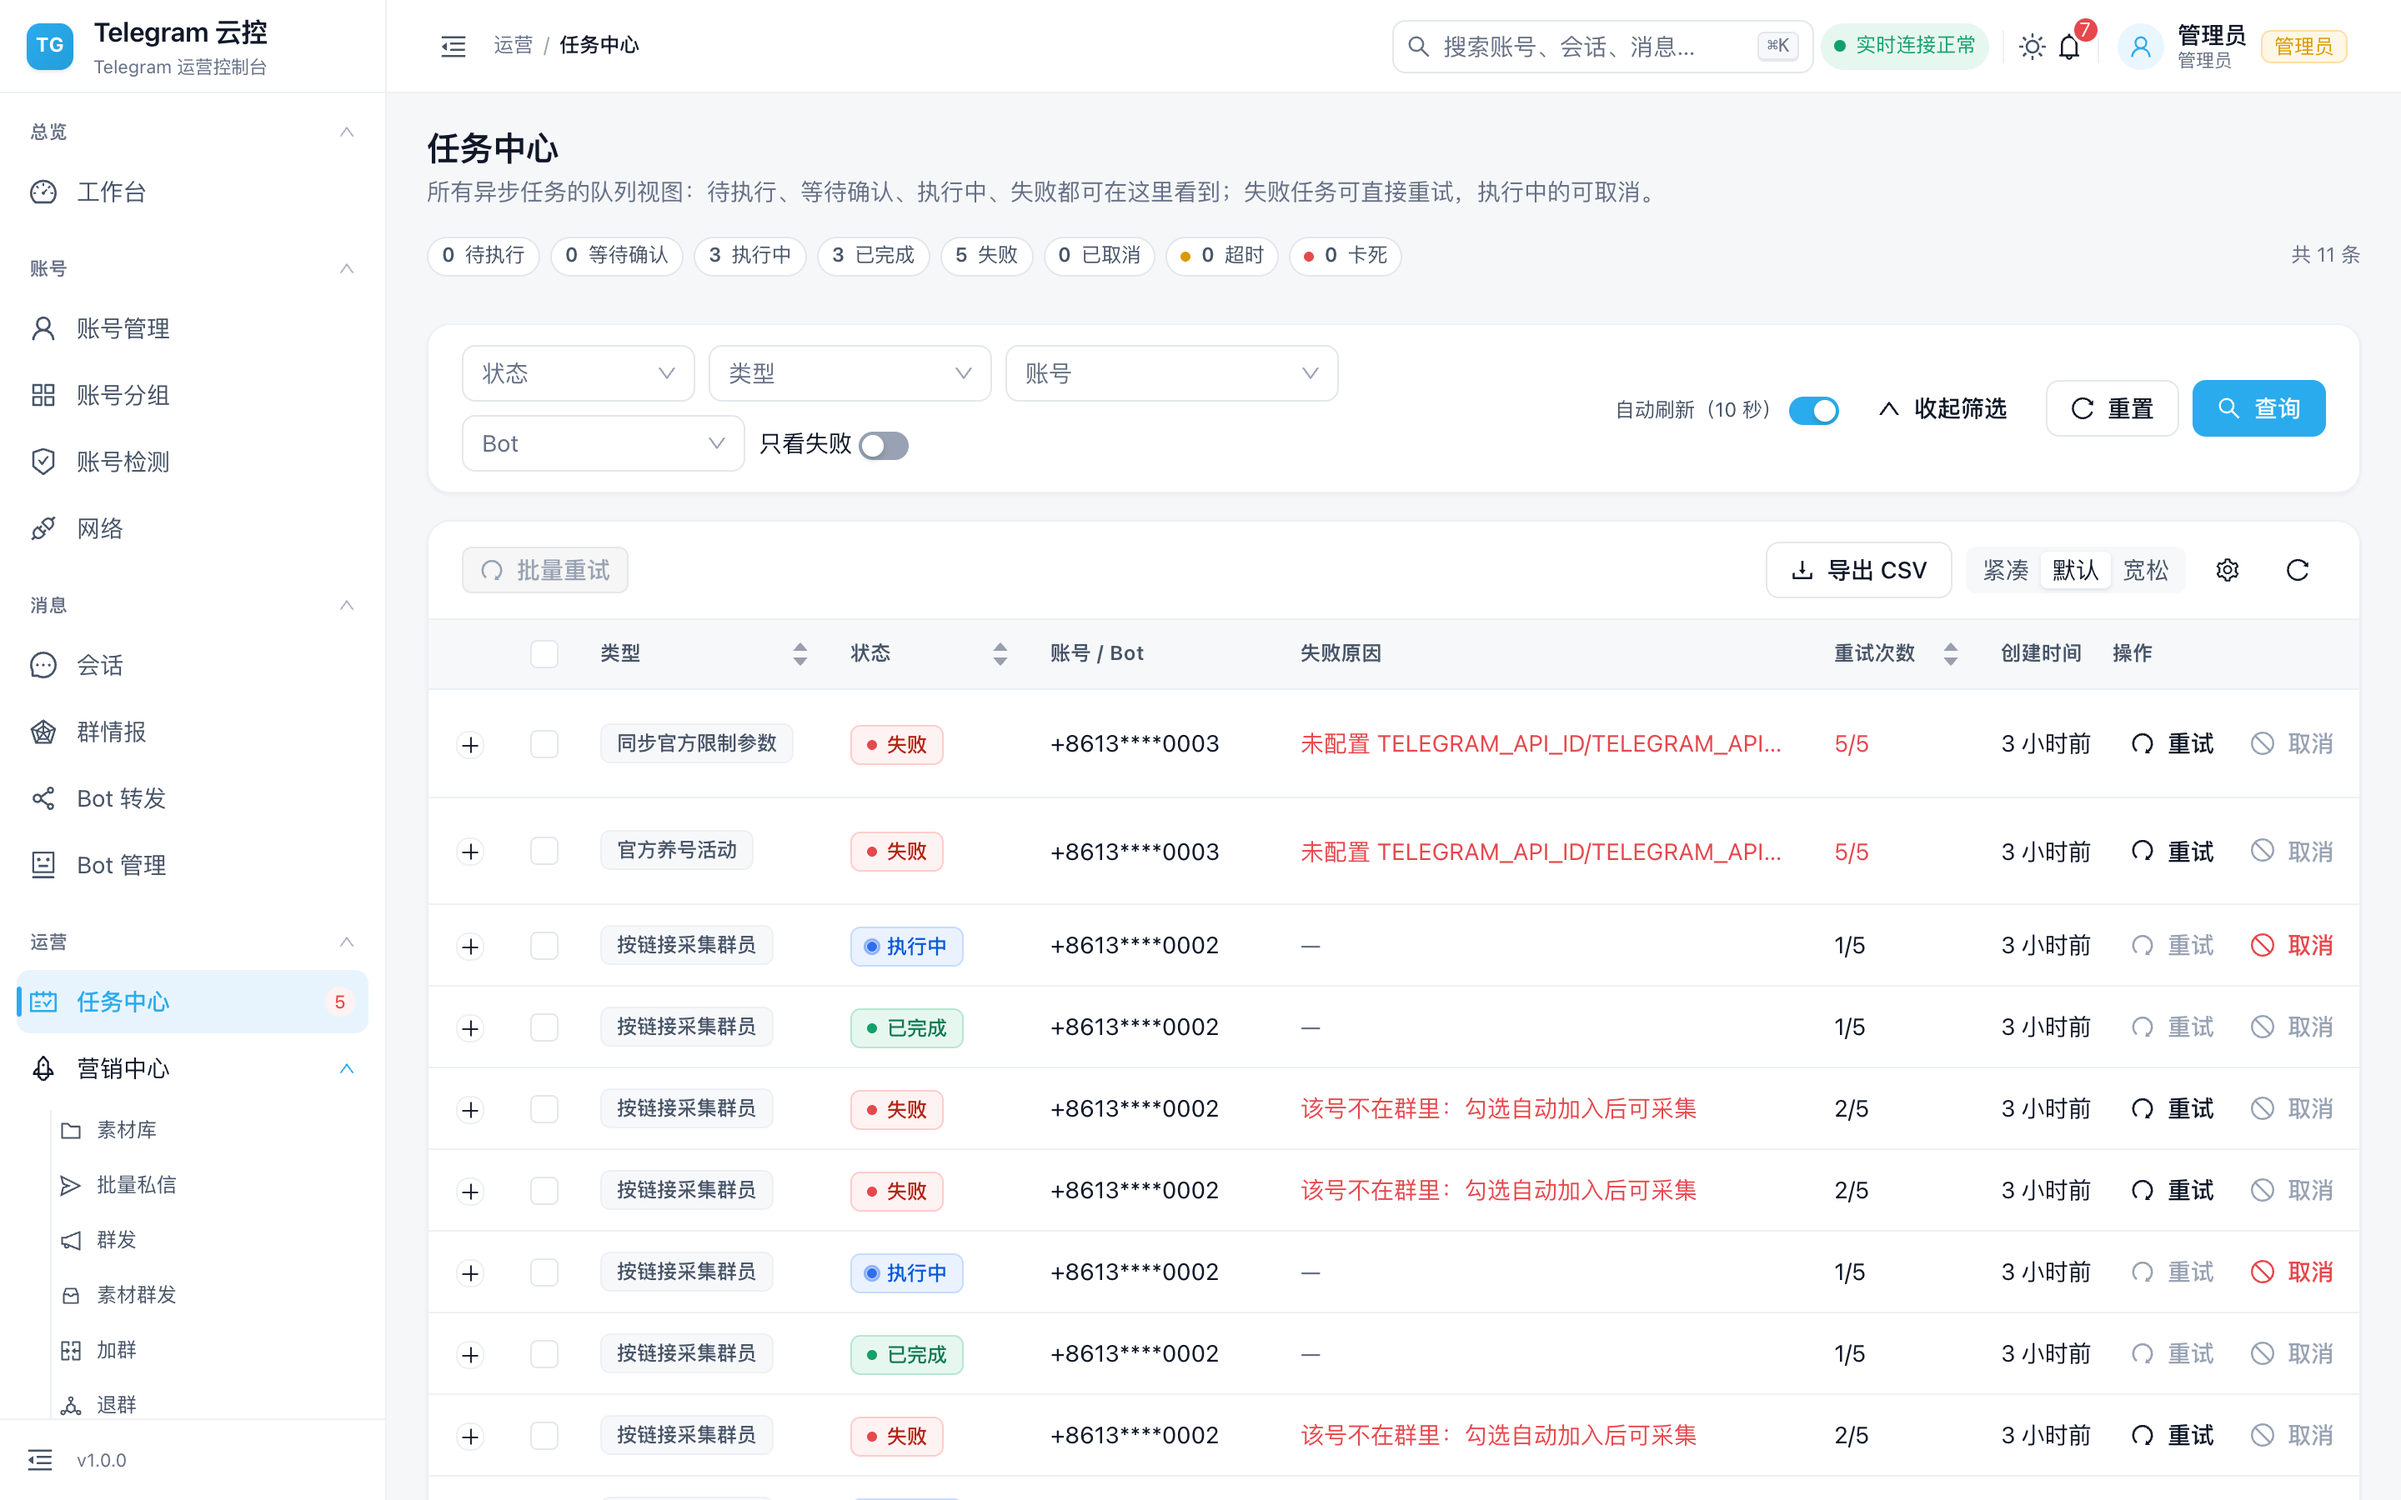
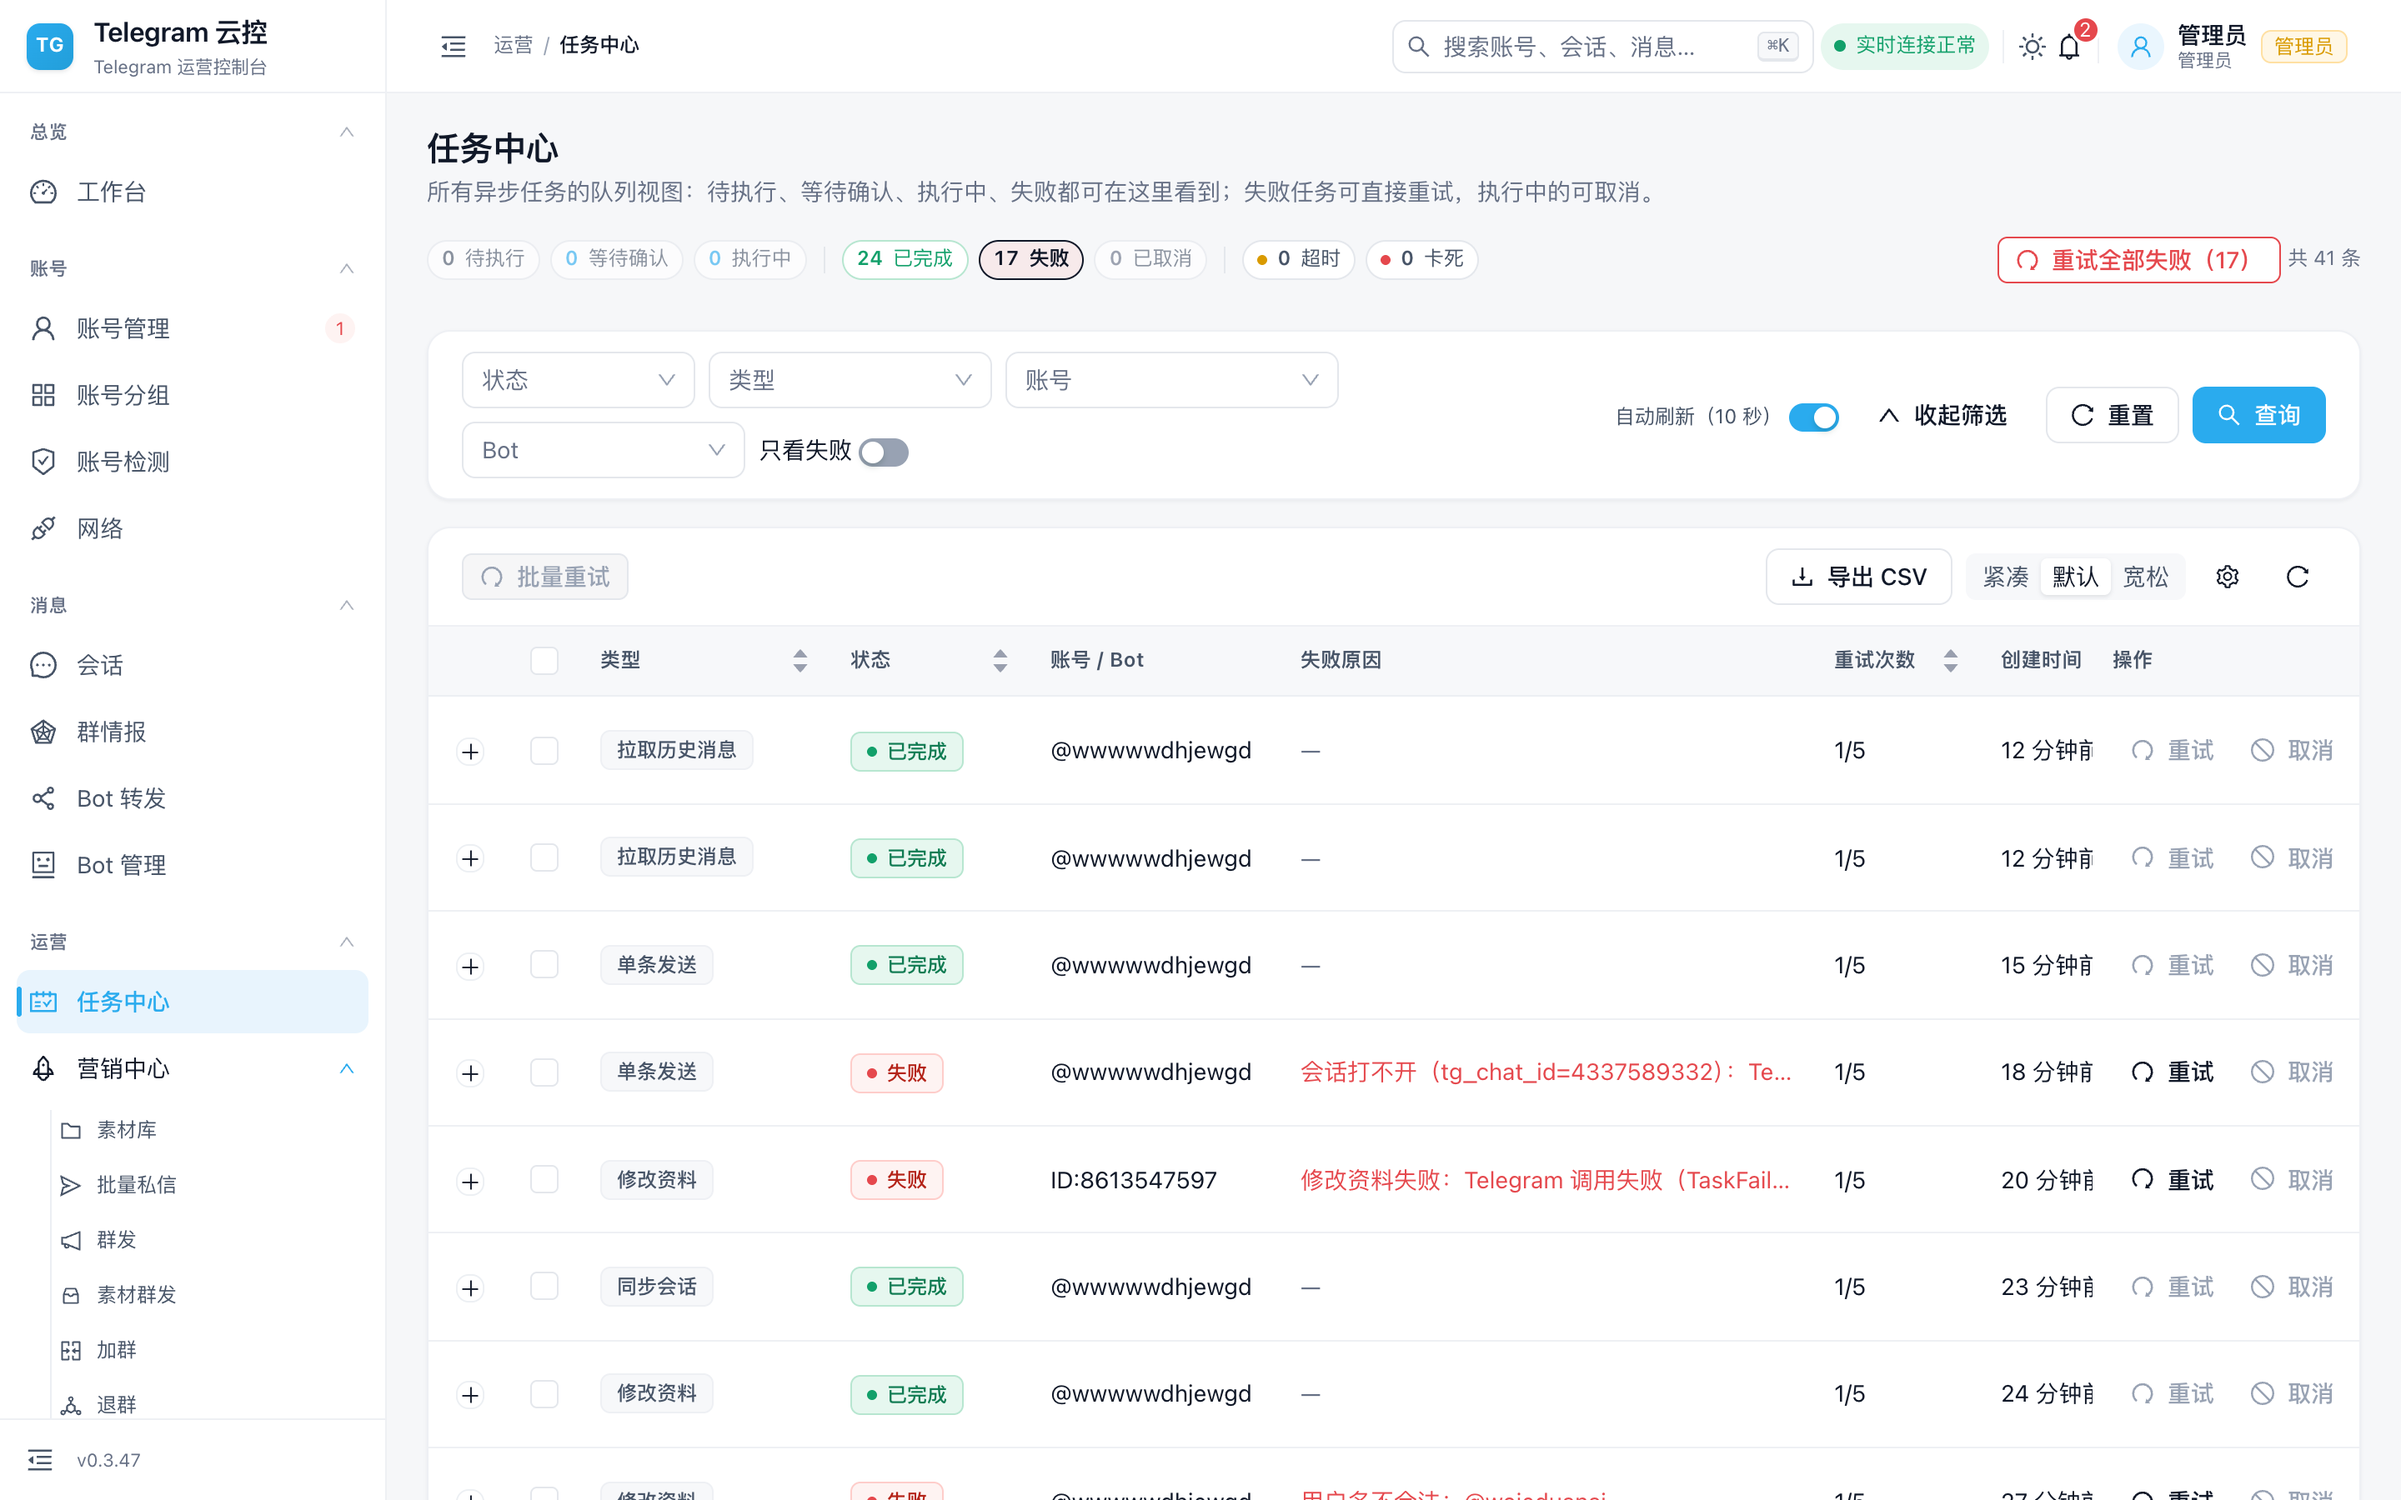
v0.3.48：任务中心统计条重做 + 修侧栏版本号显示旧版本
优化（统计条）：
- 状态各自语义色（已完成绿 / 失败红 / 执行中蓝 / 已取消灰 / 超时卡死带圆点）
- 计数为 0 的格子淡到 62%，不跟有数的抢注意力
- 按语义分三段并加分隔线：待处理｜结果｜异常
- 选中态压过状态色（失败筛选时红边红底）

修复：
- 侧栏版本号长期停在 dev server 启动时刻的旧值（截图显示 v0.3.0，实际 0.3.47）——
  改为运行时取后端 /health 的 version（与仓库根 VERSION 同源），构建期注入仅兜底
- 补上 dev 代理漏掉的 /health、/ready（健康检查在根路径无 /api 前缀），与生产 nginx 对齐

验证：侧栏实测显示 v0.3.47；curl 5173/health 经代理返回 version 0.3.47；
tsc/build 通过；任务中心截图（浅/深）重生成

版本：VERSION → 0.3.48

diff --git a/frontend/src/features/tasks/tasks.css b/frontend/src/features/tasks/tasks.css
@@ -123,6 +123,66 @@
   background: var(--tg-color-error-bg, rgba(255, 77, 79, 0.14));
 }
 
+/* 汇总条的分组分隔：待处理 / 结果 / 异常 三段 */
+.tg-task-summary-sep {
+  width: 1px;
+  height: 16px;
+  background: var(--tg-color-border);
+  margin: 0 var(--tg-space-xs);
+}
+
+/* 状态配色：数字用各自的语义色，一眼看出哪一格需要动手 */
+.tg-task-chip.is-neutral .tg-task-chip-count {
+  color: var(--tg-color-text);
+}
+.tg-task-chip.is-info .tg-task-chip-count {
+  color: var(--tg-color-info, var(--tg-color-primary));
+}
+.tg-task-chip.is-success .tg-task-chip-count {
+  color: var(--tg-color-success);
+}
+.tg-task-chip.is-muted .tg-task-chip-count {
+  color: var(--tg-color-text-tertiary);
+}
+.tg-task-chip.is-warning .tg-task-chip-count {
+  color: var(--tg-color-warning);
+}
+.tg-task-chip.is-info.has-count {
+  border-color: var(--tg-color-info-border, var(--tg-color-primary));
+  background: var(--tg-color-primary-bg);
+  color: var(--tg-color-info, var(--tg-color-primary));
+}
+.tg-task-chip.is-success.has-count {
+  border-color: var(--tg-color-success-border, var(--tg-color-success));
+  color: var(--tg-color-success);
+}
+.tg-task-chip.is-warning.has-count {
+  border-color: var(--tg-color-warning-border, var(--tg-color-warning));
+  color: var(--tg-color-warning);
+}
+
+/* 计数为 0 的格子退到背景里，不跟有数的抢注意力 */
+.tg-task-chip.is-zero {
+  opacity: 0.62;
+}
+.tg-task-chip.is-zero:hover {
+  opacity: 1;
+}
+
+/* 选中态压过状态色：让「正在筛选哪个状态」永远清晰 */
+.tg-task-chip.is-active,
+.tg-task-chip.is-active .tg-task-chip-count {
+  border-color: var(--tg-color-primary);
+  background: var(--tg-color-primary-bg);
+  color: var(--tg-color-primary);
+}
+.tg-task-chip.is-danger.is-active,
+.tg-task-chip.is-danger.is-active .tg-task-chip-count {
+  border-color: var(--tg-color-error);
+  background: var(--tg-color-error-bg, rgba(255, 77, 79, 0.12));
+  color: var(--tg-color-error);
+}
+
 /* 顶部汇总条：右侧操作区（一键重试全部失败） */
 .tg-task-summary-actions {
   margin-left: auto;

diff --git a/frontend/src/pages/Tasks.tsx b/frontend/src/pages/Tasks.tsx
@@ -42,6 +42,16 @@ interface BulkRetryOut {
   results: Array<{ task_id: string; ok: boolean; message: string }>;
 }
 
+/** 每个状态对应的视觉语义：数字用它自己的颜色，异常态才抢眼 */
+const STATUS_CHIP_TONE: Record<TaskStatus, string> = {
+  pending: 'is-neutral',
+  pending_confirmation: 'is-info',
+  running: 'is-info',
+  completed: 'is-success',
+  failed: 'is-danger',
+  cancelled: 'is-muted',
+};
+
 const STATUS_CHIP_ORDER: TaskStatus[] = [
   'pending',
   'pending_confirmation',
@@ -494,9 +504,9 @@ export default function Tasks() {
         type="button"
         className={[
           'tg-task-chip',
+          STATUS_CHIP_TONE[status] ?? 'is-neutral',
           isActive ? 'is-active' : '',
-          // 失败数非零就标红：这一格是唯一需要立刻处理的状态
-          status === 'failed' && count > 0 ? 'is-danger' : '',
+          count > 0 ? 'has-count' : 'is-zero',
         ]
           .filter(Boolean)
           .join(' ')}
@@ -515,7 +525,10 @@ export default function Tasks() {
       description="所有异步任务的队列视图：待执行、等待确认、执行中、失败都可在这里看到；失败任务可直接重试，执行中的可取消。"
     >
       <div className="tg-task-summary" style={{ marginBottom: 'var(--tg-space-lg)' }}>
-        {STATUS_CHIP_ORDER.map(chipStatus)}
+        {STATUS_CHIP_ORDER.slice(0, 3).map(chipStatus)}
+        <span className="tg-task-summary-sep" aria-hidden />
+        {STATUS_CHIP_ORDER.slice(3).map(chipStatus)}
+        <span className="tg-task-summary-sep" aria-hidden />
         <Tooltip title="来自工作台口径：已超过预计执行时间、仍待执行的任务数">
           <span className="tg-task-chip is-static is-overdue">
             <span className="dot" />

diff --git a/frontend/src/components/shell/Sidebar.tsx b/frontend/src/components/shell/Sidebar.tsx
@@ -17,6 +17,7 @@
  * - 侧栏整体折叠时只留一级图标：含子项的项直接进它的第一个子页面（Tooltip 说明）。
  */
 import { useEffect, useMemo, useState } from 'react';
+import { healthApi } from '../../api/endpoints';
 import type { CSSProperties } from 'react';
 import { Link } from 'react-router-dom';
 import { Tooltip } from 'antd';
@@ -90,6 +91,26 @@ export function Sidebar({
     closedGroups: [],
     closedItems: [],
   });
+  // 版本号：优先用后端 /health 返回的（与仓库根 VERSION 同源）。
+  // 构建期注入的 __APP_VERSION__ 只在 dev server 启动那一刻求值，长跑会停在旧版本，故只作兜底。
+  const [runningVersion, setRunningVersion] = useState<string>(
+    typeof __APP_VERSION__ === 'string' ? __APP_VERSION__ : '',
+  );
+  useEffect(() => {
+    let alive = true;
+    void healthApi
+      .live()
+      .then((res) => {
+        if (alive && res?.version) setRunningVersion(res.version);
+      })
+      .catch(() => {
+        /* 后端拿不到就继续显示构建期版本 */
+      });
+    return () => {
+      alive = false;
+    };
+  }, []);
+
   const autoParents = useMemo(() => parentsOf(activePath), [activePath]);
   // 用户本次会话里手动展开过的父项（点击后立即生效，不受历史收起记录影响）
   const [justOpened, setJustOpened] = useState<string[]>([]);
@@ -266,7 +287,7 @@ export function Sidebar({
           </button>
           {!collapsed ? (
             <span className="tg-muted" style={{ fontSize: 'var(--tg-font-size-xs)' }}>
-              {`v${__APP_VERSION__}`}
+              {`v${runningVersion}`}
             </span>
           ) : null}
         </div>

diff --git a/frontend/vite.config.ts b/frontend/vite.config.ts
@@ -26,6 +26,12 @@ export default defineConfig({
         changeOrigin: true,
         ws: true,
       },
+      '/health': { target: 'http://127.0.0.1:8000', changeOrigin: true },
+      '/ready': { target: 'http://127.0.0.1:8000', changeOrigin: true },
+      // 健康检查在根路径（没有 /api 前缀），生产 nginx 也是这么代理的——
+      // 不转发的话侧栏版本号、连通性提示都拿不到后端数据
+      '/health': { target: 'http://127.0.0.1:8000', changeOrigin: true },
+      '/ready': { target: 'http://127.0.0.1:8000', changeOrigin: true },
     },
   },
   preview: {

diff --git a/CHANGELOG.md b/CHANGELOG.md
@@ -7,6 +7,33 @@
 
 ---
 
+## v0.3.48 — 2026-03-30
+
+主题：**任务中心顶部统计条重做** + 修好侧栏版本号。
+
+### 优化（统计条）
+
+- 每个状态用**自己的语义色**：已完成=绿、失败=红、执行中/等待确认=蓝、已取消=灰、超时/卡死保留圆点；
+- **计数为 0 的格子淡到 62%**，不跟有数的抢注意力（一眼扫过去就知道哪格有事）；
+- 按语义**分成三段**并加分隔线：待处理（待执行/等待确认/执行中）｜ 结果（已完成/失败/已取消）｜ 异常（超时/卡死）；
+- 选中态（正在按该状态筛选）压过状态色，失败筛选时是红边红底，一眼看清当前在看什么。
+
+### 修复
+
+- **侧栏版本号长期显示旧版本**（截图里是 `v0.3.0`，实际已到 0.3.47）：
+  版本是 vite 在**启动时**注入的常量，dev server 长跑就一直停在启动那刻的版本。
+  现在改为**运行时向后端 `/health` 取**（与仓库根 `VERSION` 同源），构建期注入只作兜底；
+- 顺带补上 **dev 代理漏掉的 `/health`、`/ready`**（健康检查在根路径、没有 `/api` 前缀，
+  不转发的话前端根本拿不到）。生产 nginx 本来就代理了这两个路径，现在 dev 与生产一致。
+
+### 验证
+
+- 侧栏版本号实测显示 `v0.3.47`（后端 `/health` 返回同一值）；
+- `curl http://127.0.0.1:5173/health` 经 dev 代理返回 `{"status":"ok","version":"0.3.47"}`；
+- 前端 tsc 与 build 通过，任务中心截图（浅色/深色）重生成。
+
+---
+
 ## v0.3.47 — 2026-03-30
 
 主题：**侧栏「失败」角标看过就不再挂着**。

diff --git a/README.md b/README.md
@@ -12,7 +12,7 @@
 <p>
   <a href="#许可证"><img src="https://img.shields.io/badge/license-待定-yellow.svg" alt="License"></a>
   <a href="https://github.com/cafinxnull/telegram-cloud-control/releases"><img src="https://img.shields.io/github/v/release/cafinxnull/telegram-cloud-control?label=release&color=2AABEE" alt="Release"></a>
-  <a href="https://github.com/cafinxnull/telegram-cloud-control/releases"><img src="https://img.shields.io/badge/version-0.3.47-2AABEE.svg" alt="Version"></a>
+  <a href="https://github.com/cafinxnull/telegram-cloud-control/releases"><img src="https://img.shields.io/badge/version-0.3.48-2AABEE.svg" alt="Version"></a>
   <a href="https://github.com/cafinxnull/telegram-cloud-control/releases"><img src="https://img.shields.io/badge/changelog-%E6%9B%B4%E6%96%B0%E8%AE%B0%E5%BD%95-blue.svg" alt="Changelog"></a>
   <a href="https://github.com/cafinxnull/telegram-cloud-control/stargazers"><img src="https://img.shields.io/github/stars/cafinxnull/telegram-cloud-control?label=stars&color=f5a623" alt="Stars"></a>
   <a href="https://github.com/cafinxnull/telegram-cloud-control/issues"><img src="https://img.shields.io/github/issues/cafinxnull/telegram-cloud-control?label=issues" alt="Issues"></a>
